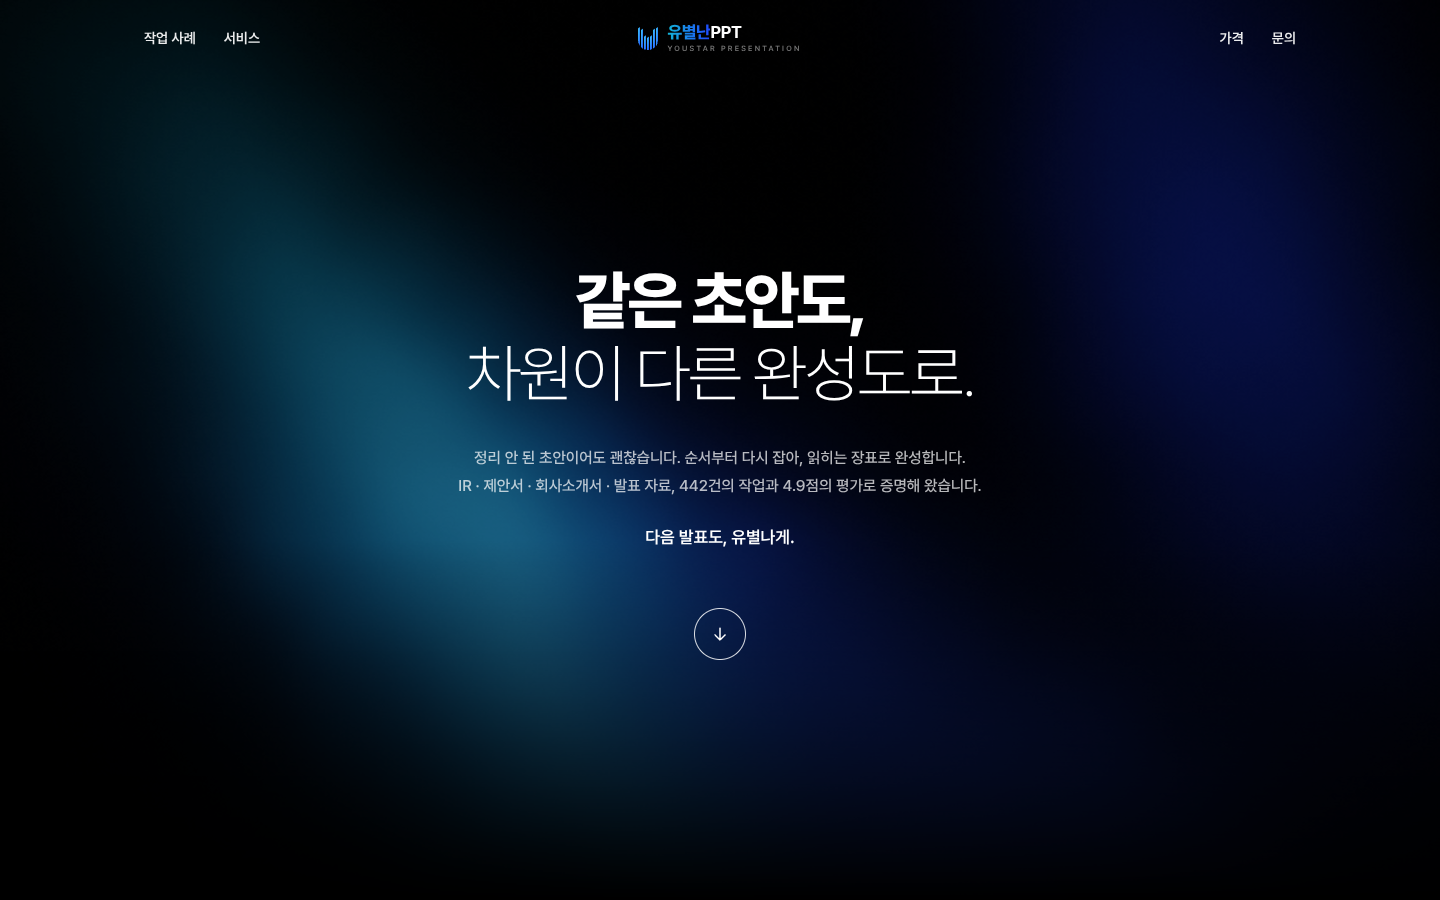
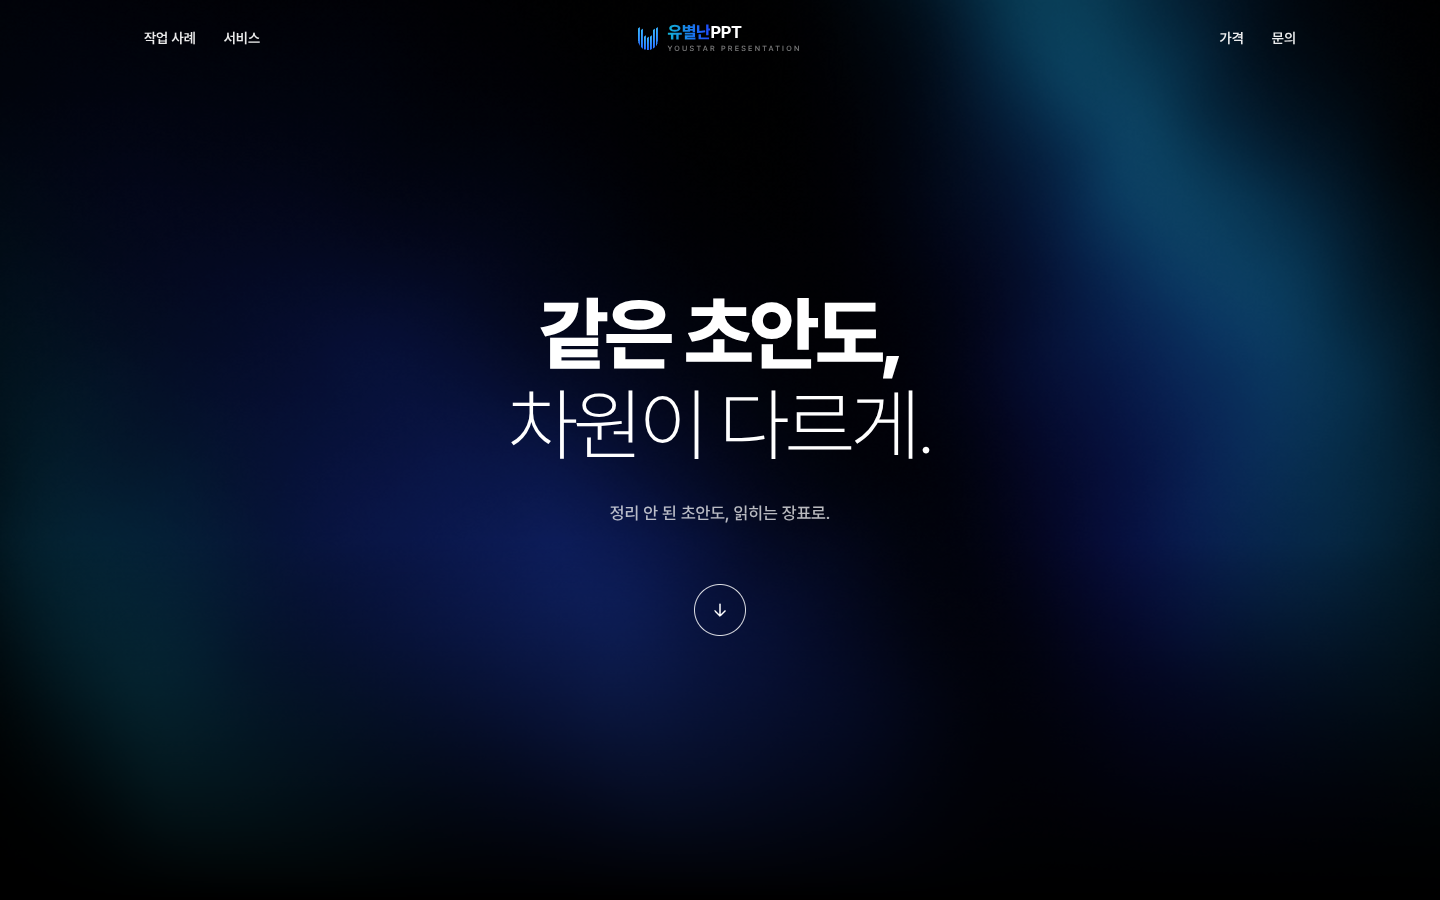
v2 hero: visible light sweep, richer teal/blue, shorter copy
- 빛줄기 두 개가 11초 주기로 엇갈려 대각선으로 지나감, 마우스 반응 강화
- 청록 중심을 밝게, 파랑·남색 층 분리
- 제목 "같은 초안도, / 차원이 다르게." + 한 줄 서브로 축소

Claude-Session: https://claude.ai/code/session_01NURhbB6Mq8R8WnaczfYj5a

diff --git a/redesign/v2/index.html b/redesign/v2/index.html
@@ -40,10 +40,10 @@ a{color:inherit;text-decoration:none}
 .hero::before{content:"";position:absolute;inset:0;z-index:-1;background:rgba(0,0,0,.28)}
 .hero::after{content:"";position:absolute;inset:auto 0 0;height:40%;z-index:-1;background:linear-gradient(transparent,#000)}
 .hero__in{padding-block:120px 96px;max-width:860px}
-.hero h1{margin:0;font-size:clamp(34px,4.6vw,64px);line-height:1.14;letter-spacing:-.045em}
+.hero h1{margin:0;font-size:clamp(40px,5.6vw,80px);line-height:1.14;letter-spacing:-.045em}
 .hero h1 b{display:block;font-weight:800}
 .hero h1 span{display:block;font-weight:250}
-.hero p{margin:34px auto 0;max-width:640px;font-size:15.5px;line-height:1.8;color:var(--ink-2);font-weight:500}
+.hero p{margin:28px auto 0;max-width:640px;font-size:17px;line-height:1.8;color:var(--ink-2);font-weight:500}
 .hero p strong{display:block;margin-top:22px;font-size:17px;color:var(--ink);font-weight:600}
 .down{display:grid;place-items:center;width:52px;height:52px;margin:56px auto 0;border-radius:50%;border:1.5px solid rgba(255,255,255,.85);transition:background .3s,transform .3s var(--ease)}
 .down:hover{background:#fff;color:#000;transform:translateY(3px)}
@@ -61,7 +61,7 @@ a{color:inherit;text-decoration:none}
   .hdr nav:last-child a:not(:last-child){display:none}
   .hero{align-items:flex-end;text-align:left}
   .hero__in{padding-block:140px 72px}
-  .hero h1{font-size:clamp(32px,9vw,40px)}
+  .hero h1{font-size:clamp(38px,11vw,46px)}
   .hero p{margin-left:0;font-size:14.5px}
   .down{margin-left:0}
 }
@@ -80,8 +80,8 @@ a{color:inherit;text-decoration:none}
 <section class="hero" id="top">
   <canvas id="beam" aria-hidden="true"></canvas>
   <div class="wrap hero__in" id="heroIn">
-    <h1 class="rise"><b>같은 초안도,</b><span>차원이 다른 완성도로.</span></h1>
-    <p class="rise">정리 안 된 초안이어도 괜찮습니다. 순서부터 다시 잡아, 읽히는 장표로 완성합니다.<br>IR · 제안서 · 회사소개서 · 발표 자료, 442건의 작업과 4.9점의 평가로 증명해 왔습니다.<strong>다음 발표도, 유별나게.</strong></p>
+    <h1 class="rise"><b>같은 초안도,</b><span>차원이 다르게.</span></h1>
+    <p class="rise">정리 안 된 초안도, 읽히는 장표로.</p>
     <a class="down rise" href="#work" aria-label="아래로"><svg viewBox="0 0 24 24" fill="none" stroke="currentColor" stroke-width="1.8" stroke-linecap="round" stroke-linejoin="round"><path d="M12 5v14M6 13l6 6 6-6"/></svg></a>
   </div>
 </section>
@@ -109,18 +109,26 @@ a{color:inherit;text-decoration:none}
   float beam(vec2 p,vec2 c,float a,float L,float W){p-=c;float s=sin(a),k=cos(a);p=vec2(k*p.x+s*p.y,-s*p.x+k*p.y);return exp(-(p.x*p.x)/(L*L)-(p.y*p.y)/(W*W));}
   void main(){
     vec2 uv=gl_FragCoord.xy/R; vec2 p=uv; p.x*=R.x/R.y;
-    float ar=R.x/R.y, t=T*.055;
+    float ar=R.x/R.y, t=T*.16;
     // 가장자리를 유기적으로 흔드는 왜곡
     vec2 w=vec2(fbm(p*1.3+t*.7),fbm(p*1.3-t*.6+4.))-.5; p+=w*.28;
-    vec2 m=(M-.5)*.08;
-    // 한 바퀴(약 18초) 동안 왼쪽 아래에서 위·오른쪽으로 쓸고 지나감
-    float s1=sin(t*1.9), s2=sin(t*1.3+1.7), s3=sin(t*1.1+3.1);
-    float b1=beam(p,vec2(ar*(.18+.16*s1),.30+.22*s2)+m,-.95+.25*s2,.55,.16);   /* 청록 */
-    float b2=beam(p,vec2(ar*(.62+.18*s2),.18+.16*s3)+m*1.4,-.75+.2*s1,.60,.22); /* 파랑 */
-    float b3=beam(p,vec2(ar*(.92+.08*s3),.55+.2*s1)+m*.6,-1.15+.15*s3,.45,.18); /* 짙은 파랑 */
-    vec3 teal=vec3(.03,.42,.55), blue=vec3(.07,.20,.85), deep=vec3(.03,.08,.42);
-    vec3 col=teal*b1*.95+blue*b2*.85+deep*b3*.9;
-    col+=vec3(.25,.55,.7)*pow(b1,4.)*.25;          /* 빛 중심의 옅은 하이라이트 */
+    vec2 m=(M-.5)*.22;
+    // 빛줄기 두 개가 엇갈려 왼쪽 아래 → 오른쪽 위로 쓸고 지나간다 (11초 주기, 반 주기 차이)
+    float P=11.;
+    float q1=fract(T/P), q2=fract(T/P+.5);
+    float e1=smoothstep(0.,1.,q1), e2=smoothstep(0.,1.,q2);
+    float i1=pow(sin(3.14159*q1),1.6), i2=pow(sin(3.14159*q2),1.6);
+    vec2 A=vec2(-.15*ar,-.25), B=vec2(ar*1.05,1.15);
+    float s1=sin(t*1.3), s2=sin(t*.9+1.7);
+    float b1=beam(p,mix(A,B,e1*.85+.05)+m,-.85+.2*s1,.62,.15)*i1;
+    float b1b=beam(p,mix(A+vec2(.25,-.1),B,e2*.85+.05)+m,-.9+.2*s2,.58,.13)*i2;
+    float b2=beam(p,vec2(ar*(.66+.2*s2),.2+.18*s1)+m*1.4,-.7+.25*s1,.7,.24);       /* 파랑: 늘 은은하게 */
+    float b3=beam(p,vec2(ar*(.9+.1*s1),.7+.2*s2)+m*.6,-1.1+.2*s2,.5,.2);            /* 남색: 오른쪽 위 */
+    vec3 teal=vec3(.02,.46,.60), tealHi=vec3(.35,.85,1.), blue=vec3(.10,.24,.95), navy=vec3(.04,.07,.42);
+    float bt=b1+b1b;
+    vec3 col=teal*bt*1.4+blue*b2*.8+navy*b3*.95;
+    col+=tealHi*pow(bt,3.)*.5;                      /* 빛 중심의 밝은 결 */
+    col+=blue*pow(b2,3.)*.25;
     col*=.62+.38*fbm(p*2.2+t);                       /* 빛 안의 결 */
     col=1.-exp(-col*1.35);                           /* 부드러운 톤 압축 */
     col+=(h(gl_FragCoord.xy+fract(T))-.5)/255.*2.;   /* 띠 무늬 방지 */
